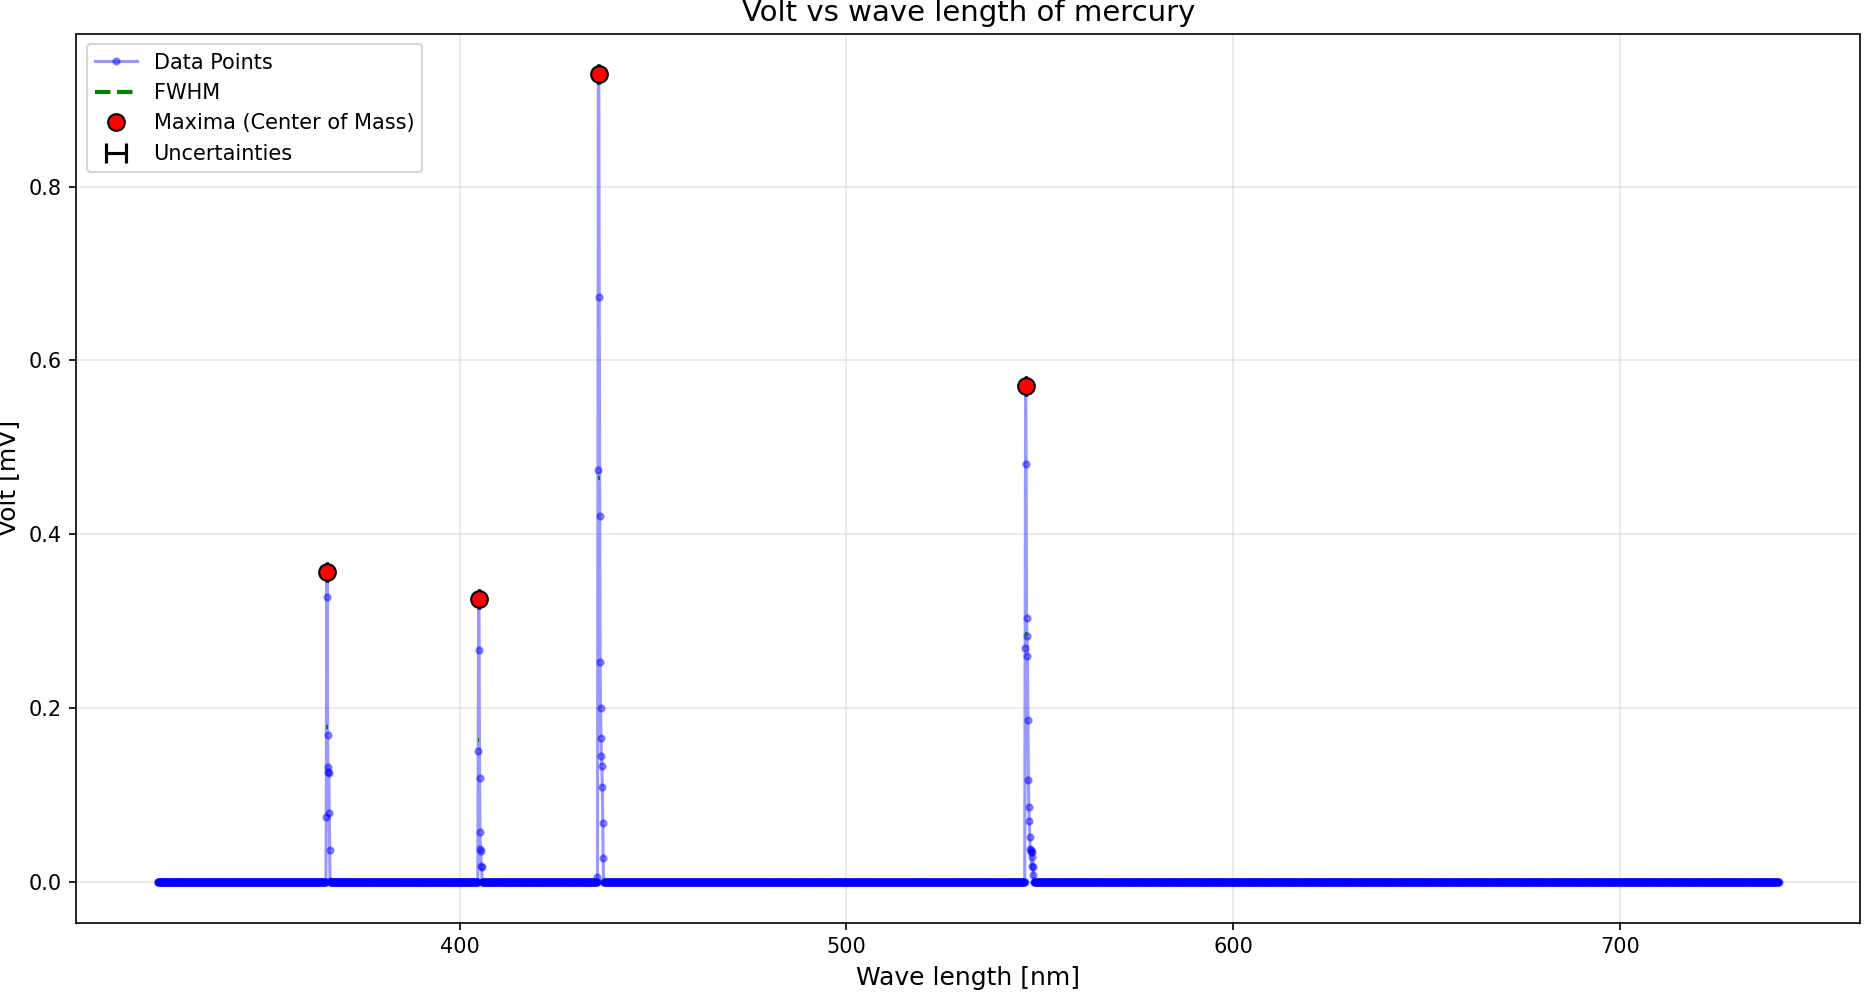
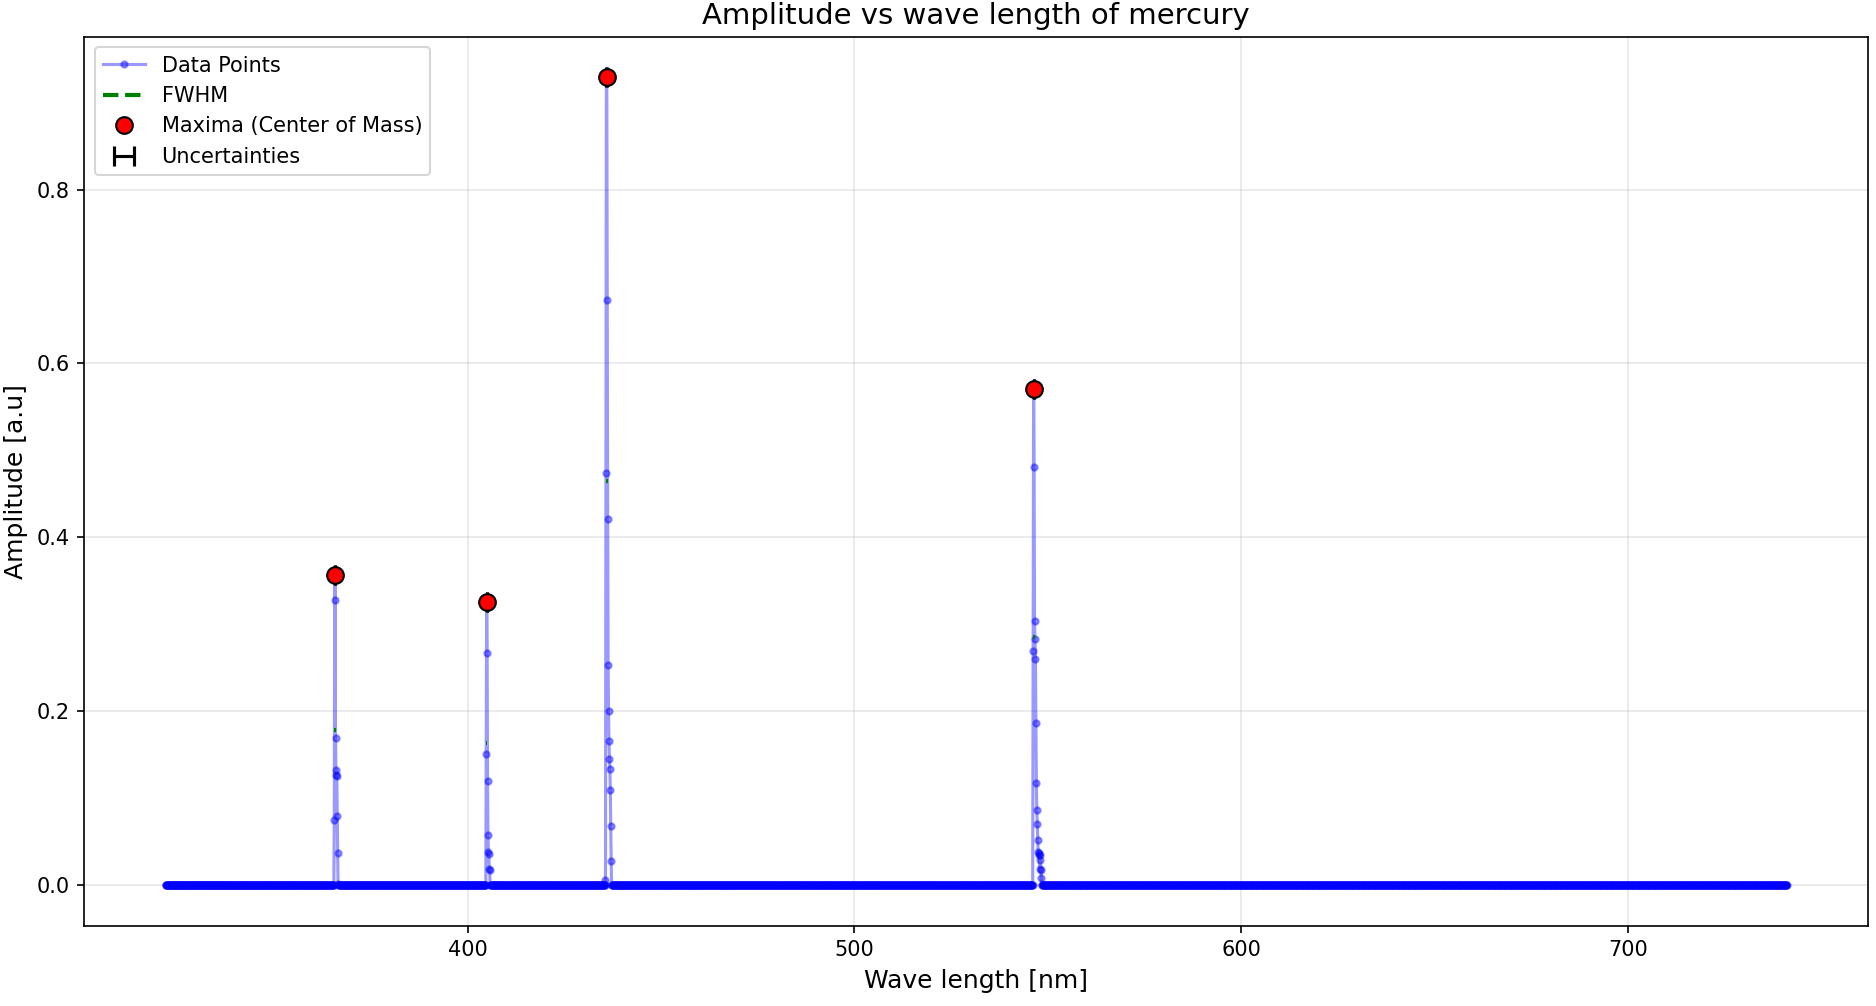
6.4 code

diff --git a/interferometry/FindFWHM.py b/interferometry/FindFWHM.py
@@ -4,7 +4,7 @@ import matplotlib.pyplot as plt
 from scipy.signal import find_peaks
 
 # Load data from the repository
-exp3_url = r'data files interferometry\sodium.csv'
+exp3_url = r'data files interferometry\helium.csv'
 df_exp3 = pd.read_csv(exp3_url)
 
 x_col = df_exp3.columns[0]
@@ -104,9 +104,9 @@ plt.errorbar(exact_maxima_x, exact_maxima_y, xerr=maxima_x_err, fmt='none',
 plt.plot(exact_maxima_x, exact_maxima_y, marker='o', linestyle='none', color='red',
          markeredgecolor='black', markersize=8, zorder=5, label='Maxima (Center of Mass)')
 
-plt.title('Volt vs wave length of sodium', fontsize=14)
+plt.title('Amplitude vs wave length of helium', fontsize=14)
 plt.xlabel('Wave length [nm]', fontsize=12)
-plt.ylabel('Volt [mV]', fontsize=12)
+plt.ylabel('Amplitude [a.u]', fontsize=12)
 plt.grid(True, alpha=0.3)
 
 handles, labels = plt.gca().get_legend_handles_labels()
